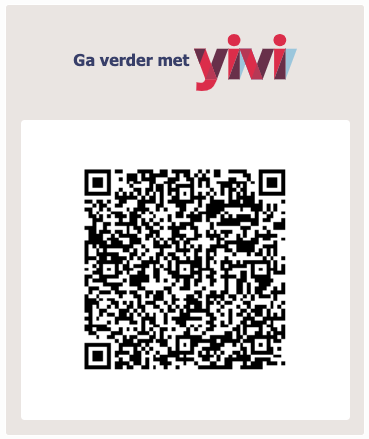
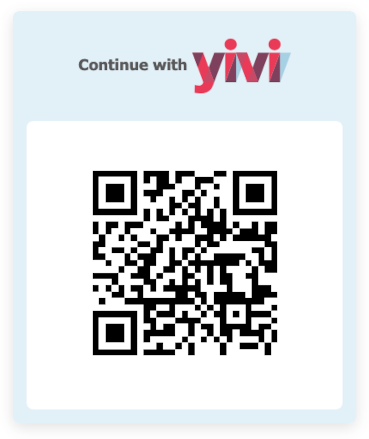
Implement Yivi UX3.1 colors and style

diff --git a/yivi-css/src/variables/colours.scss b/yivi-css/src/variables/colours.scss
@@ -4,61 +4,57 @@
 
 // Colours from the Yivi app
 //
-// $yivi-blue        - #363e6a; New Yivi blue
-// $yivi-link-blue   - #0000ee; Yivi link blue
-// $yivi-green       - #2bc194; Yivi green
-// $yivi-light-blue  - #00b1e6; (Old) Yivi blue
-// $yivi-red         - #d44454; Yivi red
-// $yivi-yellow      - #ffbb58; Yivi yellow
+// $yivi-anthracite  - #484747; Yivi anthracite
+// $yivi-link-blue   - #00508a; Yivi link blue
+// $yivi-green       - #00973a; Yivi green
+// $yivi-light-blue  - #dcecf5; Yivi light blue
+// $yivi-red         - #e12747; Yivi red
 // $yivi-grey        - #eae5e2; Yivi grey
 //
 // Weight: 1
 //
 // Styleguide Variables.colours.app
 
-$yivi-blue: #363e6a;
-$yivi-link-blue: #0000ee;
-$yivi-green: #2bc194;
-$yivi-light-blue: #00b1e6;
-$yivi-red: #d44454;
-$yivi-yellow: #ffbb58;
+$yivi-anthracite: #484747;
+$yivi-link-blue: #00508a;
+$yivi-green: #00973a;
+$yivi-light-blue: #dcecf5;
+$yivi-red: #e12747;
 $yivi-grey: #eae5e2;
 
 // Colours for interface elements
 //
-// $border-color     - #ffffff; For a border around the whole element
-// $background-color - #e8e8e8; For the background
-// $helper-color     - #e8e8e8; For the helper background
+// $background-color - #dcecf5; For the background
+// $helper-color     - #dcecf5; For the helper background
 // $content-bg-color - #ffffff; For background of the actual content
-// $button-color     - #363e6a; For the background of the buttons
+// $button-color     - #e12747; For the background of the buttons
 //
 // Weight: 1
 //
 // Styleguide Variables.colours.app
 
 // From out to in:
-$border-color: white;
-$background-color: $yivi-grey;
-$helper-color: $yivi-grey;
+$background-color: $yivi-light-blue;
+$helper-color: $yivi-light-blue;
 $content-bg-color: white;
-$button-color: $yivi-blue;
+$button-color: $yivi-red;
 
 // Text colours
 //
 // For the fonts
 //
-// $header-text-color        - #363e6a; For the header text
-// $content-text-color       - #363e6a; For the content text
-// $content-link-color       - #0000ee; For links in the content
-// $content-link-color-hover - #363e6a; For the hover state on links in the content
+// $header-text-color        - #484747; For the header text
+// $content-text-color       - #484747; For the content text
+// $content-link-color       - #00508a; For links in the content
+// $content-link-color-hover - #484747; For the hover state on links in the content
 // $button-text-color        - #ffffff; For the button foreground text
 //
 // Weight: 2
 //
 // Styleguide Variables.colours.text
 
-$header-text-color: $yivi-blue;
-$content-text-color: $yivi-blue;
+$header-text-color: $yivi-anthracite;
+$content-text-color: $yivi-anthracite;
 $content-link-color: $yivi-link-blue;
-$content-link-color-hover: $yivi-blue;
+$content-link-color-hover: $yivi-anthracite;
 $button-text-color: white;

diff --git a/yivi-css/src/variables/svg-images.scss b/yivi-css/src/variables/svg-images.scss
@@ -1,2 +1,3 @@
 // This file is auto-generated from the assets/images directory, so don't bother manually changing it.
+$svg-image-yivi-button-background: '<svg xmlns="http://www.w3.org/2000/svg" width="260" height="48" fill="none"><path fill="#BA3555" fill-rule="evenodd" d="M160.129 48h26.344l20.652-48H139.5l20.629 48Z" clip-rule="evenodd"/><path fill="#A03352" fill-rule="evenodd" d="m232.187 48 20.631-48h1.012a6 6 0 0 1 6 6v36a6 6 0 0 1-6 6h-21.643Z" clip-rule="evenodd"/><path fill="#87314F" fill-rule="evenodd" d="M252.818 0h-33.362v48h12.731l20.631-48Z" clip-rule="evenodd"/><path fill="#A03352" fill-rule="evenodd" d="M219.455 0h-12.33l-20.652 48h32.982V0Z" clip-rule="evenodd"/></svg>';
 $svg-image-yivi-logo: '<svg xmlns="http://www.w3.org/2000/svg" xml:space="preserve" width="765.355" height="425.197"><g style="display:inline"><path fill="#3ea6de" d="M425.197 109.797h-85.039l85.039 228.449h85.039z"/><path fill="#e02146" d="M590.156 45.326C590.156 20.814 609.582 0 637.795 0c28.213 0 47.639 20.814 47.639 45.326s-19.426 45.789-47.639 45.789c-28.213 0-47.639-21.277-47.639-45.789z"/><path fill="#97c6dd" d="M680.314 109.799v228.447h.002l85.039-228.449h-85.041z"/><path fill="#e02146" d="m595.275 338.246 85.039-228.447v-.002h-85.039z"/><path fill="#6a2e4a" d="M680.314 338.246V109.799l-85.039 228.447z"/><path fill="#97c6dd" d="M340.156 109.799v228.447h.002l85.041-228.449h-85.041z"/><path fill="#e02146" d="M255.117 109.797v228.449h.002l85.037-228.447v-.002z"/><path fill="#6a2e4a" d="M340.156 338.246V109.799l-85.037 228.447z"/><path fill="#e02146" d="M85.039 338.246c-7.635 20.516-18.471 25.9-36.51 25.9-11.562 0-20.77-1.85-29.49-4.625l-1.441 61.051c11.947 3.238 27.178 4.625 40.59 4.625 59.201 0 87.168-20.521 105.021-68.488l6.871-18.463zM425.197 109.797h-85.039l85.039 228.449h85.039zM250 45.326C250 20.814 269.424 0 297.637 0s47.639 20.814 47.639 45.326-19.426 45.789-47.639 45.789C269.424 91.115 250 69.838 250 45.326z"/><path fill="#6a2e4a" d="m467.716 224.035 42.52 114.211h.002l85.039-228.449h-85.041z"/><path fill="#6a2e4a" d="m382.764 309.725-42.518 114.238 42.52 114.211 85.039-228.449z" style="display:inline" transform="translate(-212.686 -199.928)"/><path fill="#e02146" d="M297.725 538.174h85.041l-85.039-228.449h-85.041z" style="display:inline" transform="translate(-212.686 -199.928)"/><g style="display:inline"><path fill="#97c6dd" d="M85.041 109.797v.002z"/><path fill="#e02146" d="M0 109.799v-.002z"/><path fill="#6a2e4a" d="m42.519 224.039 42.522-114.24v-.002H0v.002z"/><path fill="#ba3353" d="m382.677 224.039 42.52-114.24v-.002h-85.039v.002zM467.716 224.039l-42.519 114.209v.002h85.041v-.002zM127.56 224.039 85.039 338.248v.002h85.041v-.002z"/></g></g></svg>';

diff --git a/yivi-css/src/components/yivi-button.scss b/yivi-css/src/components/yivi-button.scss
@@ -14,18 +14,21 @@
 // Styleguide Components.Yivi button
 
 @import '../mixins/reset', '../mixins/fonts', '../variables/colours',
-  '../variables/sizes';
+  '../variables/sizes', '../mixins/svg-url', '../variables/svg-images';
 
 .yivi-web-button {
   @include reset;
   @include font;
   display: inline-block;
-  padding: 1em 4em;
+  padding: 12px 32px;
+
+  background-image: svg-url($svg-image-yivi-button-background);
+  background-position: right top;
+  background-repeat: no-repeat;
 
   background-color: $button-color;
-  border: 1px solid darken($button-color, 10%);
+  border: 0px solid transparent;
   border-radius: $button-border-radius;
-  box-shadow: 1px 1px 3px rgba(0, 0, 0, 0.5);
   text-decoration: none;
   color: $button-text-color;
   font-weight: 500;
@@ -40,11 +43,6 @@
   -ms-user-select: none; /* Internet Explorer/Edge */
   user-select: none; /* Non-prefixed version, currently
                                   supported by Chrome and Opera */
-
-  &:active {
-    transform: scale3d(0.99, 0.99, 1);
-    transform-origin: center;
-  }
 
   &:focus {
     outline: 0;

diff --git a/yivi-css/src/components/yivi-form.scss b/yivi-css/src/components/yivi-form.scss
@@ -90,8 +90,9 @@
   }
 
   background-color: $background-color;
-  border: 1px solid $border-color;
   border-radius: $border-radius;
+
+  box-shadow: 0px 5px 16px rgba(0, 0, 0, 0.15);
 
   .yivi-web-content {
     @include reset;
@@ -106,7 +107,7 @@
       @include reset;
       @include font($size: 16px, $weight: 18px);
       margin: 1em 4em;
-      color: $yivi-blue;
+      color: $yivi-anthracite;
 
       @include on-small-screen {
         margin: 1em 2em;
@@ -168,14 +169,14 @@
       @include transition(transform 0.4s ease);
 
       a {
-        @include font($color: $yivi-blue, $size: 16px, $weight: 400);
+        @include font($color: $yivi-anthracite, $size: 16px, $weight: 400);
         text-decoration-line: underline;
       }
 
       p {
         margin: 1em;
         text-align: center;
-        @include font($color: $yivi-blue, $size: 16px, $weight: 700);
+        @include font($color: $yivi-anthracite, $size: 16px, $weight: 700);
       }
     }
 

diff --git a/yivi-css/src/animations/loading.scss b/yivi-css/src/animations/loading.scss
@@ -23,7 +23,7 @@
     width: 33%;
     height: 33%;
     border-radius: 50%;
-    background-color: $yivi-light-blue;
+    background-color: $yivi-link-blue;
     float: left;
 
     @include animation(loading-animation 1.3s infinite ease-in-out);

diff --git a/yivi-css/src/components/yivi-pairing-form.scss b/yivi-css/src/components/yivi-pairing-form.scss
@@ -111,7 +111,7 @@
     width: 30px;
     text-align: center;
     font-size: 1.5em;
-    border: 1px solid $yivi-blue;
+    border: 1px solid $yivi-link-blue;
     border-radius: 4px;
 
     @media screen and (max-width: 310px) {

diff --git a/yivi-css/src/variables/sizes.scss b/yivi-css/src/variables/sizes.scss
@@ -5,6 +5,6 @@
 //
 // Styleguide Variables.sizes
 
-$border-radius: 4px;
-$button-border-radius: 4px;
+$border-radius: 8px;
+$button-border-radius: 8px;
 $qr-code-size: 256px;

diff --git a/yivi-css/src/animations/waiting-for-user.scss b/yivi-css/src/animations/waiting-for-user.scss
@@ -17,7 +17,7 @@
   height: 39px;
   position: relative;
 
-  background-color: $yivi-light-blue;
+  background-color: $yivi-link-blue;
   border-radius: 2px;
 
   &:before,
